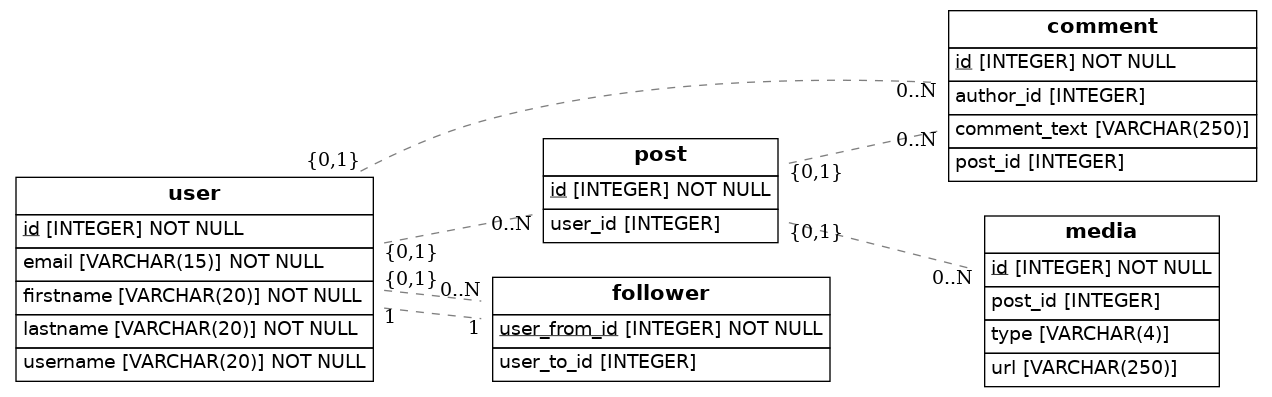
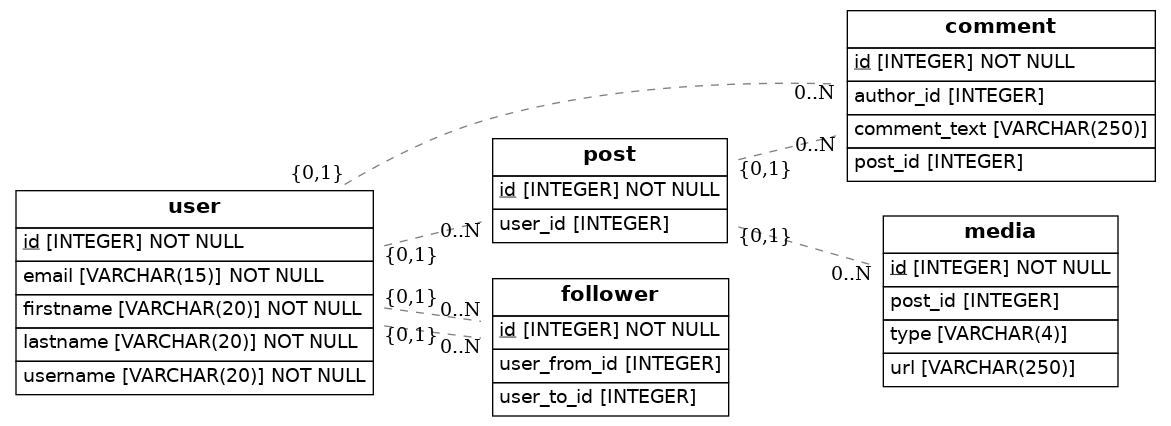
entrega

diff --git a/src/models.py b/src/models.py
@@ -1,6 +1,4 @@
-import os
-import sys
-from sqlalchemy import create_engine, Table, Column, ForeignKey, Integer, String, Enum
+from sqlalchemy import Column, ForeignKey, Integer, String, Enum
 from sqlalchemy.orm import relationship, declarative_base
 from eralchemy2 import render_er
 
@@ -42,10 +40,9 @@ class Media(Base):
 
 class Follower(Base):
     __tablename__ = 'follower'
-    # id = Column(Integer, primary_key=True)
-    user_from_id = Column(Integer, ForeignKey('user.id'), primary_key=True)
+    id = Column(Integer, primary_key=True)
+    user_from_id = Column(Integer, ForeignKey('user.id'))
     user_to_id = Column(Integer, ForeignKey('user.id'))
-
 
 ## Draw from SQLAlchemy base
 try:
